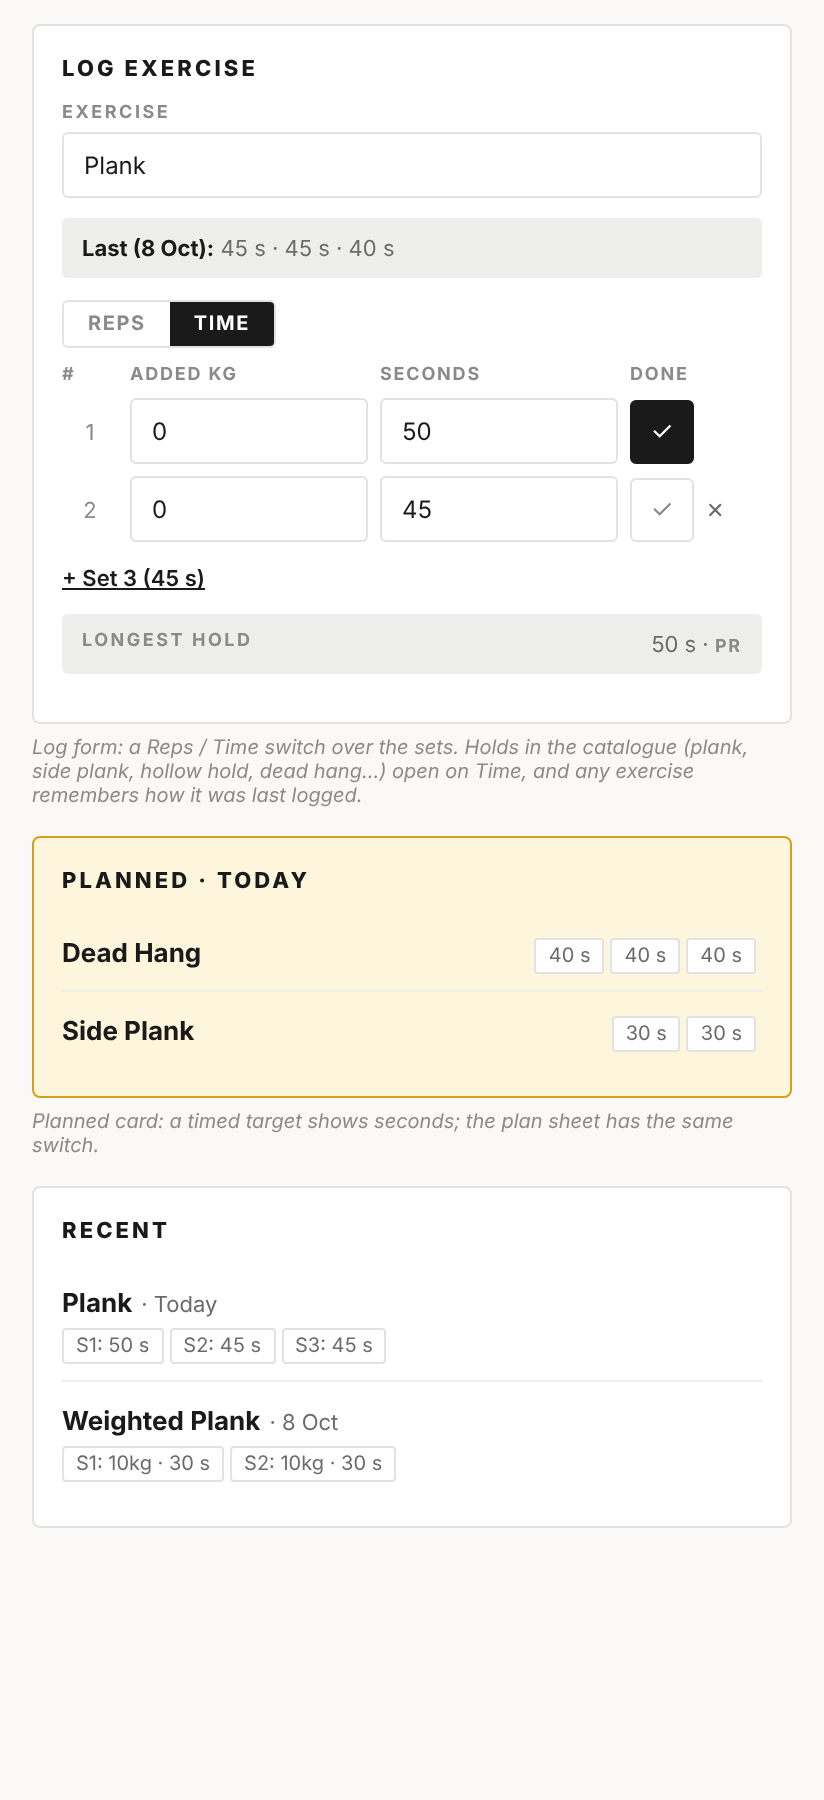
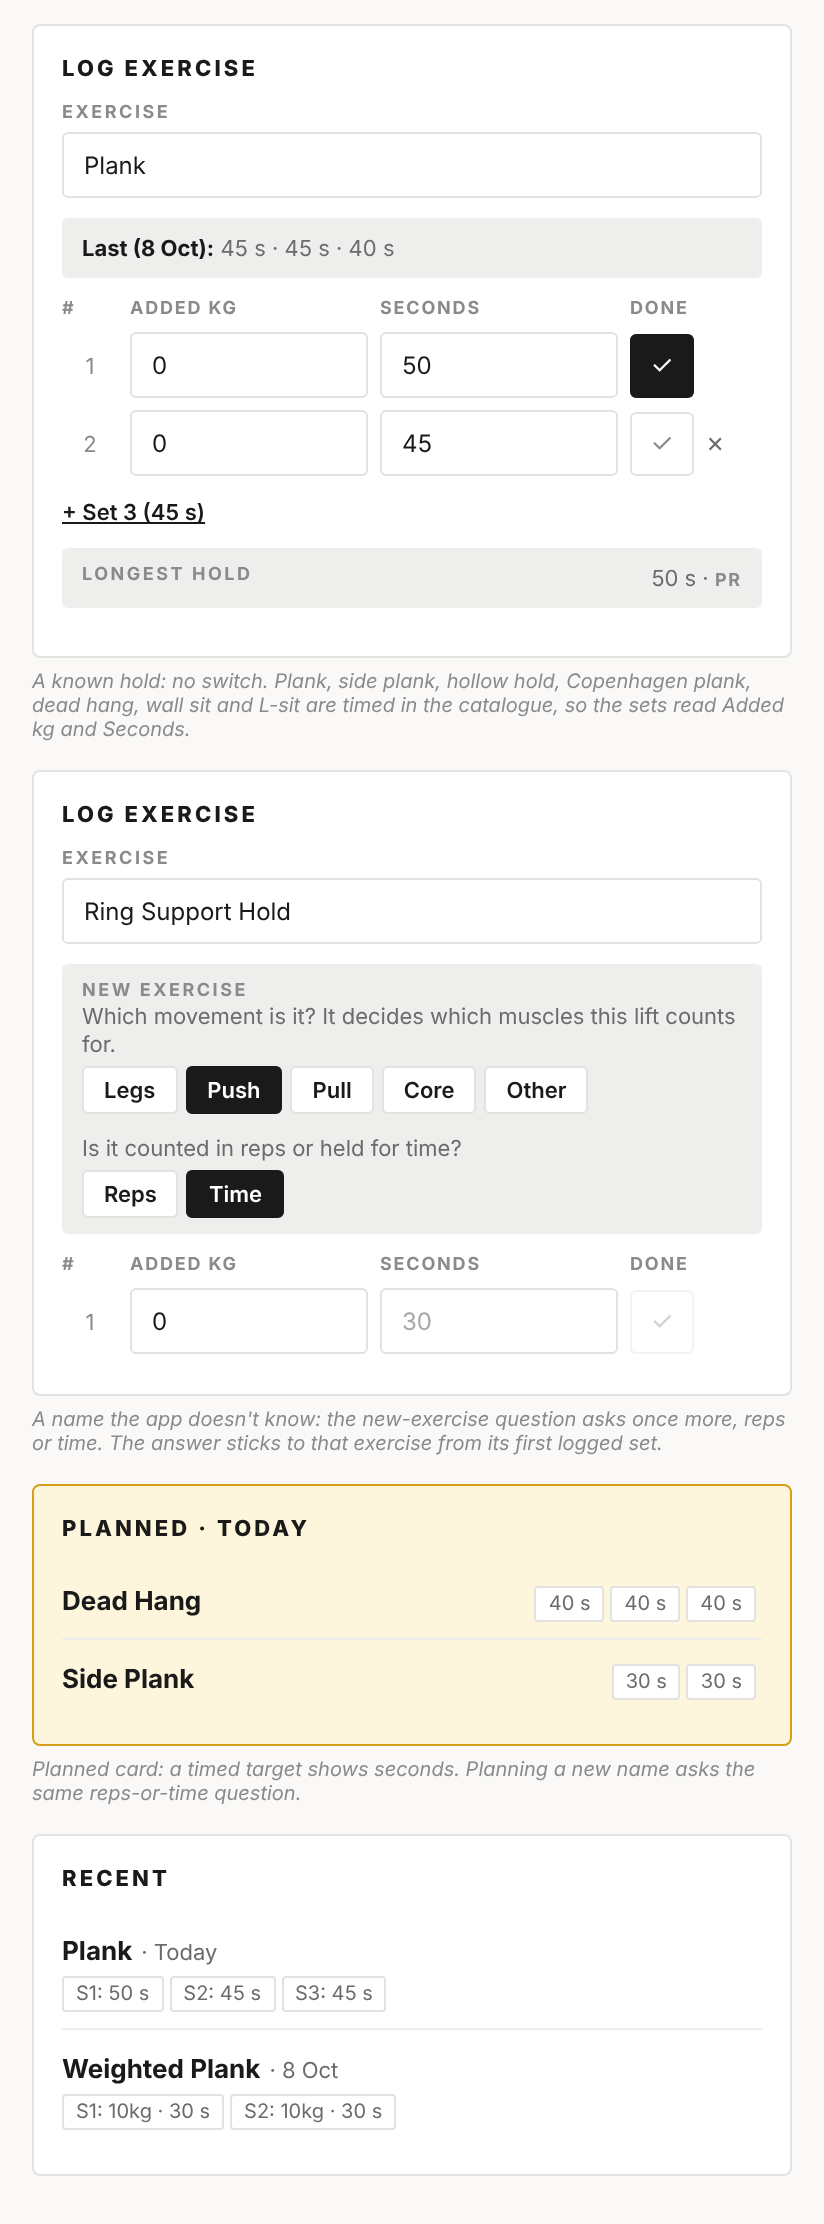
RFC 0107: timed is a property of the exercise, asked once
Claude-Session: https://claude.ai/code/session_019FFJt7ecYj9UzYr1MjkJrh

diff --git a/rfcs/0107-timed-sets.md b/rfcs/0107-timed-sets.md
@@ -4,7 +4,7 @@ authors: [Peter Petrov]
 created: 2026-10-14
 last_updated: 2026-10-14
 status: backlog
-status_note: Drafted with a mockup and grounded (duration bands, convention); waits on Peter's direction before building.
+status_note: Grounded; design changed to ask-once on Peter's call. Waits on his go to build from the updated mockup.
 label: backlog
 ---
 
@@ -15,8 +15,9 @@ label: backlog
 Let a set be measured in seconds instead of reps, for holds such as the plank,
 side plank, hollow hold, Copenhagen plank, dead hang, wall sit and L-sit. A
 timed set is stored as one rep held for a number of seconds (a new nullable
-`session_sets.duration_s`), entered through a **Reps / Time** switch over the
-sets grid, planned the same way on the Planned card, shown as seconds wherever
+`session_sets.duration_s`). Timed is a property of the exercise: catalogue
+holds are timed, and a new name is asked once, beside the movement question;
+the sets grid then reads *Added kg* and *Seconds*. Timed sets are planned the same way on the Planned card, shown as seconds wherever
 sets are listed, and classified into the muscle-linked qualities by its
 duration rather than by its single rep.
 
@@ -34,8 +35,8 @@ say "3 × 1".
 
 - An exercise can be logged in seconds, set by set, with optional added load,
   through the same form, ticks and drafts as any lift (RFC 0106 behaviour kept).
-- Catalogue holds open on Time; any other exercise opens the way it was last
-  logged, and the switch changes it.
+- Catalogue holds are timed; a name the app does not know asks "reps or
+  time?" once, and the answer sticks to that exercise. No switch on the form.
 - A plan can carry timed targets (`{"weight": 0, "seconds": 45}` in
   `target_sets`), and Log from a timed plan opens the form on Time. Timed lifts
   work inside supersets and circuits.
@@ -73,13 +74,17 @@ helper `fmtSet(s)` renders a set everywhere (`45 s`, `10kg · 30 s`,
 
 **Which exercises are timed.** A `TIMED_EXERCISES` set in the catalogue
 (Plank, Side Plank, Hollow Hold, Copenhagen Plank, Dead Hang, Wall Sit, L-sit)
-gives the default; the last logged entry of that exercise overrides it; the
-switch on the form overrides both for this log. No column on `exercises`.
+marks the known holds. Any other exercise is timed when its logged sets carry
+`duration_s` (or its plan's targets carry `seconds`), so the answer to the
+question below sticks from the first logged set with no column on
+`exercises`. The few lifts that go both ways (Pallof press and hold, a glute
+bridge for reps or held) get two names.
 
-**Form.** A two-option segmented switch, Reps / Time, above the sets grid. On
-Time the columns read *Added kg* and *Seconds*. Switching clears the column
-that no longer applies on rows not yet ticked; ticked rows lock the switch.
-The plan sheet carries the same switch.
+**Form.** The `MovementQuestion` panel for an unknown name gains a second
+question, "Is it counted in reps or held for time?", Reps / Time chips,
+defaulting to Reps. On Time the grid's columns read *Added kg* and *Seconds*.
+The plan sheet asks the same for a new name. A known exercise shows no
+question and no switch.
 
 **Reads.** `classifyWeightSet` takes the set, not its reps; a timed set is
 classified by `duration_s` against duration bands set by the Grounding below.
@@ -145,10 +150,11 @@ endurance-time coefficients.
   also an expand, but the build on `master` would then read `null` reps. One
   rep held for N seconds is literally what a hold is, and it keeps every old
   read valid.
-- **A switch remembered per exercise, not a flag on `exercises`.** A column
-  would need a migration, an editor and a backfill, and some lifts go both
-  ways (a Copenhagen plank held, or pulsed for reps). The catalogue list plus
-  history gets the default right without new machinery.
+- **Ask once, not a switch on every log** (Peter, 2026-10-14). Almost no
+  exercise is logged both ways: holds have names of their own, and their rep
+  versions are other exercises. A switch would be a control on every log for a
+  case that barely exists. Deriving "timed" from history rather than a column
+  on `exercises` avoids a second migration, an editor and a backfill.
 - **Classify by duration, not count holds as "no quality".** Leaving holds out
   of every quality would hide real work from Adaptations; counting them by
   their one rep is the bug this RFC fixes.
@@ -158,8 +164,8 @@ endurance-time coefficients.
 - [ ] `session_sets.duration_s` exists live (migration applied on Peter's word).
 - [ ] A plank logged as 3 × 45 s shows as seconds on Last, Recent, the edit form
       and the muscle sheet, at 412 px.
-- [ ] Catalogue holds open on Time; a custom exercise logged on Time reopens on
-      Time.
+- [ ] Catalogue holds show Seconds with no question; a new name asks reps or
+      time once, and a custom hold logged on Time reopens on Time.
 - [ ] A timed plan from an agent (`seconds` in `target_sets`) shows as seconds on
       the Planned card and logs on Time, inside a superset too.
 - [ ] A timed set never appears as a personal best, 1RM or volume; the longest
@@ -170,10 +176,5 @@ endurance-time coefficients.
 
 ## Unresolved questions
 
-- Switch on every log, or timed as a property of the exercise? Few exercises
-  go both ways (Copenhagen plank, Pallof press/hold, glute bridge), and none in
-  the log so far, so the leaner alternative is: catalogue holds are timed, a new
-  name asks "Reps or time?" once beside the movement question, and both-ways
-  lifts get two names. Raised 2026-10-14, waiting on Peter.
-- Peter's direction on the switch-and-remember design (mockup:
-  [0107/timed-sets-mockup.png](0107/timed-sets-mockup.png)).
+- Peter's go to build from the updated mockup:
+  [0107/timed-sets-mockup.png](0107/timed-sets-mockup.png).
